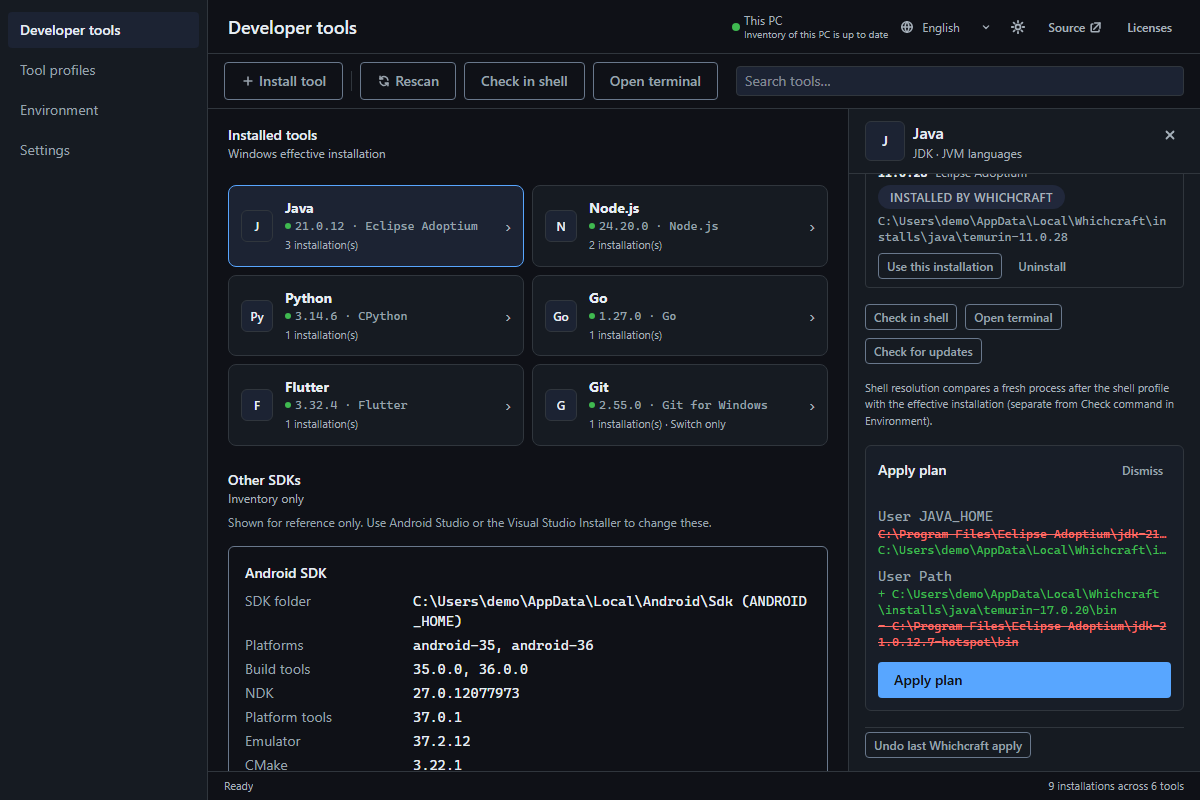
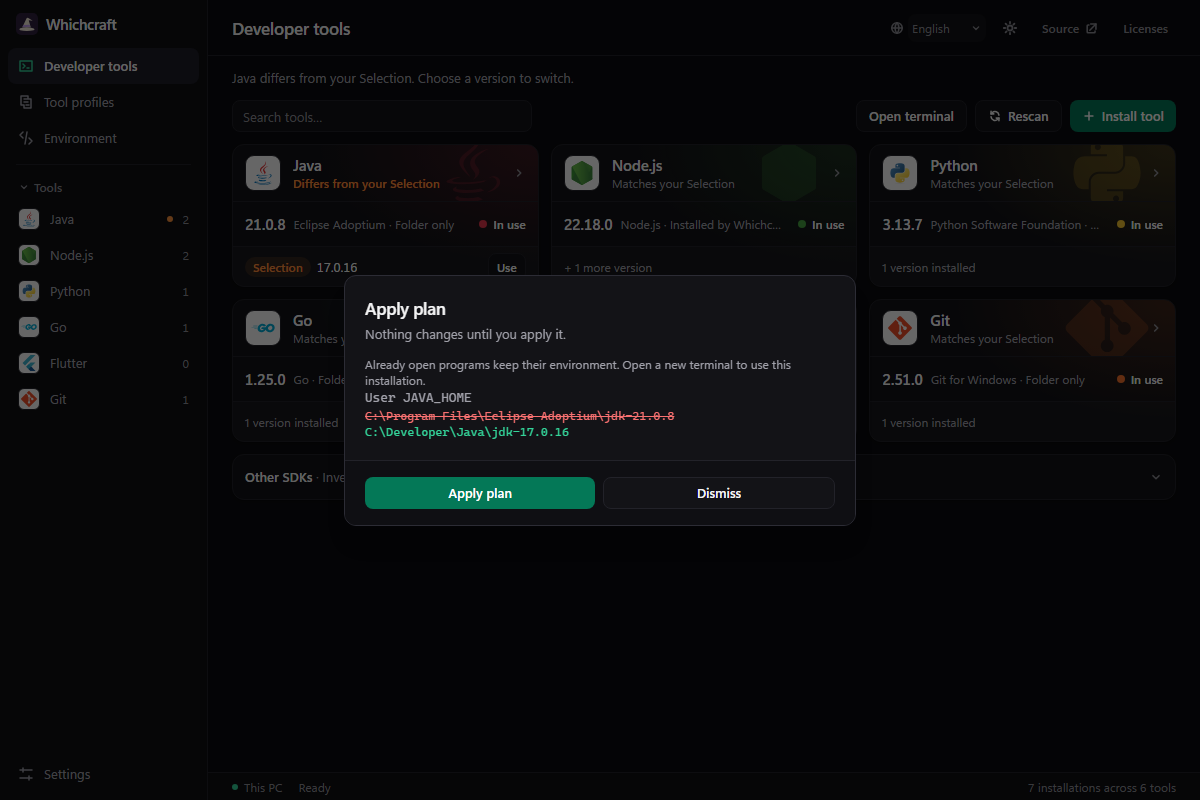
docs: bring the docs and website up to date with the current app
Add a README, since the public repo had none, stating that no release exists
yet and that builds are not code signed. Record the move from whichcraft.com
to bin\whichcraft.exe in ADR-0006, add acceptance criteria for launching and
uninstalling, and correct DESIGN.md's bridge location, CLI behavior and data
folders, which no longer matched the code.

Recapture the website screenshots from the current interface with a new
capture-lp script, and add an FAQ entry in all six languages on what stays
after uninstalling. The new translations have not been reviewed by native
speakers.

diff --git a/lp/src/lib/lpContent.ts b/lp/src/lib/lpContent.ts
@@ -117,6 +117,11 @@ export const enCopy: LandingCopy = {
         question: 'Can I use Whichcraft from the command line or scripts?',
         answer: 'For environment variables, yes. get, list, and export read them, while set, delete, and import change them. Write commands default to a dry run and only modify the registry when you add --apply. Switching and installing tools are done in the app. Run whichcraft --help to see the commands and options.',
       },
+      {
+        id: 'uninstall',
+        question: 'What stays on my PC after I uninstall Whichcraft?',
+        answer: 'The app, its shortcuts, and its PATH entry are removed. Tools you installed through Whichcraft stay in place, because PATH or a project may still use them, so remove them in the app first if you no longer want them. With the .exe installer, tick Delete the application data to also remove settings, profiles, snapshots, and undo history. The MSI has no such option and keeps them.',
+      },
     ],
     cliSetup: 'Run these commands from a terminal. Add Whichcraft to PATH using the app, or invoke bin\\whichcraft.exe in the installation folder by its full path.',
     cliDocs: 'CLI usage and examples',
@@ -140,7 +145,7 @@ export const enCopy: LandingCopy = {
   },
   screenshots: {
     toolsAlt: 'Whichcraft — developer tools overview showing the effective version of Java, Node.js, Python, Go, Flutter, and Git',
-    planAlt: 'Whichcraft — Java installations with an apply plan showing the JAVA_HOME and Path changes before they are written',
+    planAlt: 'Whichcraft — apply plan dialog showing the JAVA_HOME change before it is written',
     profilesAlt: 'Whichcraft — tool profiles showing which saved set matches what is in effect',
     firstLabel: 'Screenshot 1',
     secondLabel: 'Screenshot 2',
@@ -273,6 +278,11 @@ export const jaCopy: LandingCopy = {
         question: 'Whichcraft をコマンドラインやスクリプトから使えますか？',
         answer: '環境変数については使えます。読み取り用の get・list・export と、変更用の set・delete・import があります。変更用コマンドは既定ではドライランになり、--apply を付けたときだけレジストリへ書き込みます。ツールの切り替えとインストールはアプリで行います。whichcraft --help でコマンドとオプションを確認できます。',
       },
+      {
+        id: 'uninstall',
+        question: 'Whichcraft をアンインストールすると PC に何が残りますか？',
+        answer: 'アプリ、ショートカット、PATH のエントリは削除されます。Whichcraft でインストールしたツールは、PATH やプロジェクトが使っている可能性があるため残ります。不要な場合は先にアプリから削除してください。.exe インストーラーでアプリケーションデータを削除するオプションを選ぶと、設定、プロファイル、スナップショット、元に戻す履歴も削除されます。MSI にはこのオプションがなく、これらは残ります。',
+      },
     ],
     cliSetup: 'ターミナルから実行してください。アプリで Whichcraft を PATH に追加するか、インストール先の bin\\whichcraft.exe をフルパスで指定します。',
     cliDocs: 'CLI の使い方と実行例',
@@ -296,7 +306,7 @@ export const jaCopy: LandingCopy = {
   },
   screenshots: {
     toolsAlt: 'Whichcraft — Java、Node.js、Python、Go、Flutter、Git の有効なバージョンを表示する開発ツール一覧',
-    planAlt: 'Whichcraft — Java のインストール一覧と、書き込み前の JAVA_HOME と Path の変更を示す適用プラン',
+    planAlt: 'Whichcraft — 書き込み前の JAVA_HOME の変更を示す適用プランのダイアログ',
     profilesAlt: 'Whichcraft — 保存したセットが現在の状態と一致するかを示すツールプロファイル',
     firstLabel: 'スクリーンショット 1',
     secondLabel: 'スクリーンショット 2',
@@ -429,6 +439,11 @@ export const zhCNCopy: LandingCopy = {
         question: '可以从命令行或脚本使用 Whichcraft 吗？',
         answer: '环境变量可以。get、list 和 export 用于读取，set、delete 和 import 用于修改。修改命令默认为试运行，只有添加 --apply 才会写入注册表。切换和安装工具需要在应用中完成。运行 whichcraft --help 可查看命令和选项。',
       },
+      {
+        id: 'uninstall',
+        question: '卸载 Whichcraft 后电脑上还会留下什么？',
+        answer: '应用、快捷方式和 PATH 条目会被移除。通过 Whichcraft 安装的工具会保留，因为 PATH 或项目可能仍在使用；如果不再需要，请先在应用中卸载。使用 .exe 安装程序时，勾选删除应用数据的选项，还会移除设置、配置、快照和撤销记录。MSI 没有此选项，这些内容会保留。',
+      },
     ],
     cliSetup: '请在终端中运行。通过应用将 Whichcraft 添加到 PATH，或使用安装目录中 bin\\whichcraft.exe 的完整路径。',
     cliDocs: 'CLI 用法和示例',
@@ -452,7 +467,7 @@ export const zhCNCopy: LandingCopy = {
   },
   screenshots: {
     toolsAlt: 'Whichcraft — 显示 Java、Node.js、Python、Go、Flutter 和 Git 实际生效版本的开发工具总览',
-    planAlt: 'Whichcraft — Java 安装列表，以及写入前显示 JAVA_HOME 和 Path 更改的应用计划',
+    planAlt: 'Whichcraft — 写入前显示 JAVA_HOME 更改的应用计划对话框',
     profilesAlt: 'Whichcraft — 显示已保存组合是否与当前生效版本一致的工具配置',
     firstLabel: '截图 1',
     secondLabel: '截图 2',
@@ -585,6 +600,11 @@ export const ruCopy: LandingCopy = {
         question: 'Можно ли использовать Whichcraft из командной строки или скриптов?',
         answer: 'Для переменных окружения — да. Команды get, list и export читают их, а set, delete и import изменяют. По умолчанию команды изменения работают в пробном режиме и записывают в реестр только с флагом --apply. Переключение и установка инструментов выполняются в приложении. Команда whichcraft --help показывает доступные команды и параметры.',
       },
+      {
+        id: 'uninstall',
+        question: 'Что останется на компьютере после удаления Whichcraft?',
+        answer: 'Приложение, ярлыки и запись в PATH удаляются. Инструменты, установленные через Whichcraft, остаются, так как их может использовать PATH или проект; если они больше не нужны, сначала удалите их в приложении. В установщике .exe отметьте удаление данных приложения, чтобы также удалить настройки, профили, снимки и историю отмены. В MSI такого параметра нет, и эти данные сохраняются.',
+      },
     ],
     cliSetup: 'Запускайте команды из терминала. Добавьте Whichcraft в PATH через приложение или укажите полный путь к bin\\whichcraft.exe в папке установки.',
     cliDocs: 'Использование CLI и примеры',
@@ -608,7 +628,7 @@ export const ruCopy: LandingCopy = {
   },
   screenshots: {
     toolsAlt: 'Whichcraft — обзор инструментов разработки с действующими версиями Java, Node.js, Python, Go, Flutter и Git',
-    planAlt: 'Whichcraft — установки Java и план применения с изменениями JAVA_HOME и Path до их записи',
+    planAlt: 'Whichcraft — диалог плана применения с изменением JAVA_HOME до записи',
     profilesAlt: 'Whichcraft — профили инструментов и соответствие сохранённых наборов текущему состоянию',
     firstLabel: 'Скриншот 1',
     secondLabel: 'Скриншот 2',
@@ -741,6 +761,11 @@ export const koCopy: LandingCopy = {
         question: '명령줄이나 스크립트에서 Whichcraft를 사용할 수 있나요?',
         answer: '환경 변수에 대해서는 가능합니다. get, list, export는 읽기에, set, delete, import는 변경에 사용합니다. 변경 명령은 기본적으로 미리 실행만 하며 --apply를 추가할 때만 레지스트리에 기록합니다. 도구 전환과 설치는 앱에서 합니다. whichcraft --help로 명령과 옵션을 확인할 수 있습니다.',
       },
+      {
+        id: 'uninstall',
+        question: 'Whichcraft를 제거하면 PC에 무엇이 남나요?',
+        answer: '앱, 바로 가기, PATH 항목은 제거됩니다. Whichcraft로 설치한 도구는 PATH나 프로젝트에서 계속 쓸 수 있으므로 남습니다. 더 이상 필요 없다면 먼저 앱에서 제거하세요. .exe 설치 프로그램에서 앱 데이터 삭제 옵션을 선택하면 설정, 프로필, 스냅샷, 실행 취소 기록도 함께 제거됩니다. MSI에는 이 옵션이 없어 이 데이터가 유지됩니다.',
+      },
     ],
     cliSetup: '터미널에서 실행하세요. 앱에서 Whichcraft를 PATH에 추가하거나 설치 폴더에 있는 bin\\whichcraft.exe의 전체 경로를 지정하세요.',
     cliDocs: 'CLI 사용법과 예제',
@@ -764,7 +789,7 @@ export const koCopy: LandingCopy = {
   },
   screenshots: {
     toolsAlt: 'Whichcraft — Java, Node.js, Python, Go, Flutter, Git의 유효 버전을 보여 주는 개발 도구 개요',
-    planAlt: 'Whichcraft — Java 설치 목록과 기록 전 JAVA_HOME 및 Path 변경을 보여 주는 적용 계획',
+    planAlt: 'Whichcraft — 기록 전 JAVA_HOME 변경을 보여 주는 적용 계획 대화 상자',
     profilesAlt: 'Whichcraft — 저장한 조합이 현재 적용된 상태와 일치하는지 보여 주는 도구 프로필',
     firstLabel: '스크린샷 1',
     secondLabel: '스크린샷 2',
@@ -897,6 +922,11 @@ export const viCopy: LandingCopy = {
         question: 'Tôi có thể dùng Whichcraft từ dòng lệnh hoặc script không?',
         answer: 'Có, đối với biến môi trường. get, list và export dùng để đọc; set, delete và import dùng để thay đổi. Các lệnh thay đổi mặc định chỉ chạy thử và chỉ ghi vào registry khi thêm --apply. Việc chuyển đổi và cài đặt công cụ được thực hiện trong ứng dụng. Chạy whichcraft --help để xem các lệnh và tùy chọn.',
       },
+      {
+        id: 'uninstall',
+        question: 'Sau khi gỡ Whichcraft, những gì còn lại trên máy?',
+        answer: 'Ứng dụng, lối tắt và mục PATH sẽ bị xóa. Các công cụ đã cài qua Whichcraft vẫn được giữ vì PATH hoặc dự án có thể vẫn dùng; nếu không cần nữa, hãy gỡ chúng trong ứng dụng trước. Với trình cài đặt .exe, chọn tùy chọn xóa dữ liệu ứng dụng để xóa cả cài đặt, hồ sơ, bản chụp nhanh và lịch sử hoàn tác. MSI không có tùy chọn này nên dữ liệu vẫn được giữ.',
+      },
     ],
     cliSetup: 'Chạy từ terminal. Thêm Whichcraft vào PATH bằng ứng dụng, hoặc dùng đường dẫn đầy đủ tới bin\\whichcraft.exe trong thư mục cài đặt.',
     cliDocs: 'Cách dùng CLI và ví dụ',
@@ -920,7 +950,7 @@ export const viCopy: LandingCopy = {
   },
   screenshots: {
     toolsAlt: 'Whichcraft — tổng quan công cụ phát triển với phiên bản có hiệu lực của Java, Node.js, Python, Go, Flutter và Git',
-    planAlt: 'Whichcraft — các bản cài đặt Java và kế hoạch áp dụng hiển thị thay đổi JAVA_HOME và Path trước khi ghi',
+    planAlt: 'Whichcraft — hộp thoại kế hoạch áp dụng hiển thị thay đổi JAVA_HOME trước khi ghi',
     profilesAlt: 'Whichcraft — hồ sơ công cụ cho biết bộ đã lưu nào khớp với trạng thái đang có hiệu lực',
     firstLabel: 'Ảnh chụp màn hình 1',
     secondLabel: 'Ảnh chụp màn hình 2',

diff --git a/DESIGN.md b/DESIGN.md
@@ -8,8 +8,12 @@ Architecture decisions, security model, and data format specs. Not a tutorial; r
 
 ```
 src/                    React frontend (TypeScript)
-  api.ts                Tauri command bridge — all invoke() calls live here
-  App.tsx               Root: state, layout, dialog orchestration
+  transport/            Tauri command bridge — all invoke() calls live here
+  App.tsx               Root: picks the desktop shell or the legacy presentation
+  features/
+    shell/              The desktop shell: sidebar, tool cards, tool sheet, plan review
+    tools/              Tool inventory, plans, and effects
+    environment/        Environment workspace state
   hooks/
     useStaged.ts        Staging area: Map<"Scope:name", StagedChange>; effectiveVars merge
     useUndoStack.ts     Generic undo/redo stack (stage-level Ctrl+Z/Y)
@@ -32,11 +36,14 @@ src/                    React frontend (TypeScript)
     DiffPanel/          Unified diff view (external-change detection)
     SnapshotPanel/      Snapshot list (rendered in right sidebar)
     ImportExportPanel/  Import/Export wizard (rendered in modal)
-    LicensesPanel/      Envarly MIT license + third-party OSS listing (rendered in modal)
+    LicensesPanel/      Envarly MIT license + third-party OSS listing (rendered in modal, loaded on demand)
     ui/                 Atomic components: Button, TextInput, Textarea, Badge, Modal, …
 
 src-tauri/src/          Rust backend
-  lib.rs                Entry point: CLI dispatch or Tauri run
+  main.rs               GUI entry point: a GUI launch runs Tauri, a subcommand runs the CLI
+  bin/whichcraft-cli.rs Console launcher, installed as bin\whichcraft.exe
+  lib.rs                Tauri setup, single-instance handling, and shared entry points
+  whichcraft/           Tool inventory, plans, apply and undo, mise, and persistence
   commands/             Tauri command handlers per domain (env, export, launch, path, snapshot, update, users)
   env_store.rs          Registry read/write via winreg; EnvBackend trait + MemBackend for tests
   env_backend.rs        Windows registry implementation (WinregBackend)
@@ -54,7 +61,7 @@ src-tauri/src/          Rust backend
 
 ### Frontend ↔ Backend boundary
 
-All communication goes through `src/api.ts`. No `invoke()` call appears anywhere else in the frontend. This makes the boundary easy to audit, mock in tests, and replace if the IPC layer changes.
+All communication goes through `src/transport/tauriWhichcraftApi.ts`. No real `invoke()` call appears anywhere else in the frontend. This makes the boundary easy to audit, mock in tests, and replace if the IPC layer changes.
 
 ### Staging area
 
@@ -156,15 +163,23 @@ The JSON payload contains a `version` field. Current version is **1**.
 
 | Purpose | Path |
 |---------|------|
+| Settings | `%LOCALAPPDATA%\Whichcraft\settings.json` |
+| Selections | `%LOCALAPPDATA%\Whichcraft\selection.json` |
+| Tool Profiles | `%LOCALAPPDATA%\Whichcraft\profiles.json` |
+| Apply journal, for Undo and recovery | `%LOCALAPPDATA%\Whichcraft\journal\` |
 | Snapshots | `%LOCALAPPDATA%\Whichcraft\snapshots\` |
+| Elevation requests, removed after use | `%LOCALAPPDATA%\Whichcraft\elevation-*.json` |
+| Default Install Store | `%LOCALAPPDATA%\Whichcraft\installs\` |
+| Pinned mise | `%LOCALAPPDATA%\Whichcraft\mise\` |
+| WebView data | `%LOCALAPPDATA%\com.whichcraft.app\` |
 
-No other files are written. Settings are kept in Tauri's default store if added later.
+A per-user NSIS install also places the app in `%LOCALAPPDATA%\Whichcraft`, so this folder holds both. Uninstalling keeps the data. Ticking "Delete the application data" removes everything above except `installs` and `mise`, which hold tools that PATH or a project may still use. The MSI has no such option.
 
 ---
 
 ## CLI mode
 
-When launched with arguments, `try_run_cli()` intercepts before the GUI starts and exits the process after the command completes.
+Terminals reach the console program `bin\whichcraft.exe`, because only `bin` goes on PATH ([ADR-0006](docs/adr/0006-cli-in-bin-folder-not-com.md)). With a subcommand it runs the command and exits. With no subcommand, or only GUI flags such as `--legacy-ui`, it starts the GUI one folder up and returns. The GUI `whichcraft.exe` given a subcommand also runs it, which the installers use for `path-cleanup`.
 
 `get`/`list`/`export` call `env_store::read_all()` / `export::*` directly and never write. `import`/`set`/`delete` are dry-run by default and only call `env_store::apply_changes()` when `--apply` is passed. This is the GUI's shared apply path with best-effort rollback of completed mutations. Restoration checks for conflicting external changes and reports unresolved entries; it does not provide crash safety or transactional isolation.
 
@@ -179,18 +194,15 @@ whichcraft delete <NAME> [--scope user|system] [--apply]
 
 ---
 
-## Component sizing conventions
+## Single instance
 
-Spacing follows a 4px/8px grid. Tailwind class mapping:
+Release builds run one GUI at a time through `tauri-plugin-single-instance`, so two instances never write the same settings and journal. A second launch brings the open window forward and exits. Subcommands, `--demo` runs, and debug builds are not limited. Run as admin passes `--replaces-pid` so the elevated instance waits for the old one to exit before taking the lock.
 
-| Intent | Classes |
-|--------|---------|
-| Button (sm) | `px-4 py-2.5 text-sm` |
-| Button (md) | `px-5 py-3 text-sm font-medium` |
-| IconButton | `p-1.5` |
-| Input / Textarea | `px-4 py-2.5 text-sm` |
-| Sidebar item | `px-4 py-2.5 rounded` |
-| Badge | `px-3 py-1 text-xs` |
+---
+
+## Visual system
+
+Tokens, type, spacing, and interaction rules live in [design-system/whichcraft/MASTER.md](design-system/whichcraft/MASTER.md), and their implementation in `src/index.css`.
 
 ---
 

diff --git a/README.md b/README.md
@@ -1,0 +1,69 @@
+# Whichcraft
+
+A Windows desktop app that finds, installs, switches, and uninstalls versions of Java, Node.js, Python, Go, Flutter, and Git, and decides which installation Windows uses by default.
+
+It shows the difference between what you selected and what a new process actually gets, shows the exact environment changes before writing them, and can undo them.
+
+![Developer tools page showing each tool's installation in use](lp/public/screenshot-tools.png)
+
+**Website:** <https://nu-therabbit.github.io/Whichcraft/>
+
+## Status
+
+Version 0.1.0 has not been released yet, so there is no installer to download. Build it from source for now. Builds are not code signed, so Windows SmartScreen may warn when you run one.
+
+## What it does
+
+- **Finds installations** in PATH, the registry, standard locations, and folders you add.
+- **Switches with a reviewed plan.** Paths are written straight into your environment with no shims, and the choice applies to the whole machine rather than one project.
+- **Installs and updates** Temurin, Node.js, Python, Go, and Flutter through a pinned copy of [mise](https://mise.jdx.dev/) it manages itself. Git is switch-only.
+- **Saves tool profiles,** named sets of versions you can apply in one step.
+- **Edits environment variables** with staged changes, snapshots, and a command line for scripts.
+
+The interface is available in English, Japanese, Simplified Chinese, Russian, Korean, and Vietnamese.
+
+## Build from source
+
+You need Windows, Node.js 22, and stable Rust.
+
+```powershell
+npm ci
+npm run tauri dev
+```
+
+To build the NSIS and MSI installers:
+
+```powershell
+npm run tauri build
+```
+
+## Command line
+
+After adding Whichcraft to PATH from the app, open a new terminal:
+
+```powershell
+whichcraft --help
+whichcraft list
+whichcraft set MY_VAR value          # dry run
+whichcraft set MY_VAR value --apply  # writes to the registry
+```
+
+Running `whichcraft` with no command opens the app. Switching and installing tools happen in the app.
+
+## Uninstalling
+
+Uninstalling removes the app, its shortcuts, and its PATH entry. Tools installed through Whichcraft stay in place because PATH or a project may still use them. With the `.exe` installer, tick **Delete the application data** to also remove settings, Selections, Tool Profiles, snapshots, and undo history. The MSI has no such option and keeps them.
+
+## Documentation
+
+| Document | Covers |
+|---|---|
+| [CONTRIBUTING.md](CONTRIBUTING.md) | Development flow, tests, and translations |
+| [DESIGN.md](DESIGN.md) | Architecture, security model, and data formats |
+| [design-system/whichcraft/MASTER.md](design-system/whichcraft/MASTER.md) | Interface tokens and UX rules |
+| [CONTEXT.md](CONTEXT.md) | Domain vocabulary |
+| [docs/adr/](docs/adr/) | Architecture decisions |
+
+## License
+
+[MIT](LICENSE). Whichcraft is forked from [Envarly](https://github.com/iray-tno/envarly) by iray-tno.

diff --git a/docs/acceptance-criteria.md b/docs/acceptance-criteria.md
@@ -136,6 +136,18 @@
 | C-1 | User PATH มี `%USERPROFILE%\go\bin` ซ้ำ 3 ครั้ง และมีพาธ Ollama ที่ไม่มีอยู่แล้ว | เสนอให้ลบรายการซ้ำและพาธที่ไม่มีอยู่ ผ่าน diff ไม่ลบเอง และ Undo ได้ | Q15 |
 | C-2 | รายการที่อ้างตัวแปร เช่น `%JAVA_HOME%\bin` | ไม่ถือว่าเป็นพาธที่ไม่มีอยู่ ถ้าขยายตัวแปรแล้วโฟลเดอร์มีอยู่จริง | Q15, Q30 |
 
+## 12. เปิดและถอนแอป
+
+| ID | สถานการณ์ | ผลที่ต้องได้ | ที่มา |
+|---|---|---|---|
+| W-1 | เพิ่ม User PATH แล้วรัน `whichcraft --help` ใน terminal ใหม่ | แสดงวิธีใช้แล้ว terminal กลับมา และแอนตี้ไวรัสไม่กักไฟล์ | ADR-0006 |
+| W-2 | รัน `whichcraft` โดยไม่ใส่คำสั่ง | เปิด GUI และ terminal กลับมาทันที | ADR-0006 |
+| W-3 | เปิดแอปซ้ำจาก terminal หรือ shortcut ขณะหน้าต่างเปิดอยู่ | ไม่มีหน้าต่างใหม่ และหน้าต่างเดิมขึ้นมาด้านหน้า | DESIGN.md |
+| W-4 | กด Run as admin แล้วยอมรับ UAC | เหลือหน้าต่าง admin หน้าต่างเดียว | DESIGN.md |
+| W-5 | ถอนด้วย NSIS โดยไม่ติ๊กลบข้อมูล | โปรแกรม, shortcut และรายการ PATH หายไป ข้อมูลใน `%LOCALAPPDATA%\Whichcraft` ยังอยู่ | DESIGN.md |
+| W-6 | ถอนด้วย NSIS และติ๊กลบข้อมูล | เหลือเฉพาะ `installs` กับ `mise` และ environment ของเครื่องมือไม่เปลี่ยน | DESIGN.md |
+| W-7 | ถอนด้วย MSI | โปรแกรมและรายการ PATH หายไป ข้อมูลยังอยู่ | DESIGN.md |
+
 ## ทดสอบบนเครื่องนี้ไม่ได้ (ต้องหาสภาพแวดล้อมอื่น)
 
 | ID | สถานการณ์ | ทำไมทดสอบไม่ได้ |

diff --git a/docs/adr/0006-cli-in-bin-folder-not-com.md b/docs/adr/0006-cli-in-bin-folder-not-com.md
@@ -1,0 +1,9 @@
+# ส่ง CLI เป็น `bin\whichcraft.exe` และใส่เฉพาะโฟลเดอร์ `bin` ลง PATH
+
+โปรแกรม console ของแอปเคยชื่อ `whichcraft.com` อยู่ข้าง GUI แล้วอาศัย PATHEXT ที่ลอง `.COM` ก่อน `.EXE` เมื่อทดสอบบนเครื่องจริง Bitdefender ติดป้าย `whichcraft.com --help` ว่าเป็นมัลแวร์ และลบแอปที่ติดตั้งออกทั้งชุด เพราะโปรแกรมที่ไม่มีลายเซ็นใน `AppData` ซึ่งถูกเรียกผ่าน PATH ด้วยนามสกุล `.com` เหมือนเทคนิคที่มัลแวร์ใช้ เราจึงย้าย CLI ไปเป็น `bin\whichcraft.exe` และให้แอปเพิ่มเฉพาะ `bin` ลง PATH เมื่อติดตั้งใหม่และรันขั้นตอนเดิมบนเครื่องเดียวกัน Bitdefender ไม่จับอีก แต่ผลนี้ยืนยันได้แค่เครื่องนั้น จึงยังควรเซ็นชื่อโค้ดก่อนปล่อย
+
+## ผลที่ตามมา
+
+- ห้ามกลับไปส่ง `.com` บน PATH
+- CLI ชื่อไฟล์ตรงกับ GUI การหา GUI จึงต้องขึ้นไปโฟลเดอร์แม่ มิฉะนั้นจะเปิดตัวเอง
+- สำเนาแบบ portable ไม่มี `bin` จึงใส่โฟลเดอร์ของตัวเองลง PATH

diff --git a/media/README.md b/media/README.md
@@ -1,5 +1,7 @@
 # whichcraft-media
 
+> The website's screenshots now come from `npm run capture-lp` at the repo root, which renders the real desktop shell with the sample data in `.scratch/windows-workbench`. `capture.mjs` and `capture-video.mjs` below still drive the previous interface, and the site no longer uses the walkthrough video, so update them before relying on them. `npm run build:titlebar` still works.
+
 Regenerates `docs/screenshot-dark.png`, `lp/public/screenshot-*.png`, and a short walkthrough video/GIF from the **real, running app** instead of hand-captured/hand-edited assets — so they stay in sync as the UI changes, with no manual editing step anywhere.
 
 ## How it works
@@ -20,7 +22,7 @@ npm install          # first time only
 npm run screenshots   # capture + compose in one step
 ```
 
-Then `cd lp && npm run build` to confirm the OG-image generator (which embeds `screenshot-path-editor.png`) still succeeds, and eyeball the regenerated PNGs before committing.
+Then `cd lp && npm run build` to confirm the OG-image generator (which embeds `screenshot-tools.png`) still succeeds, and eyeball the regenerated PNGs before committing.
 
 If `titlebar.png` ever needs to change (e.g. the app icon changes), run `npm run build:titlebar` first.
 
